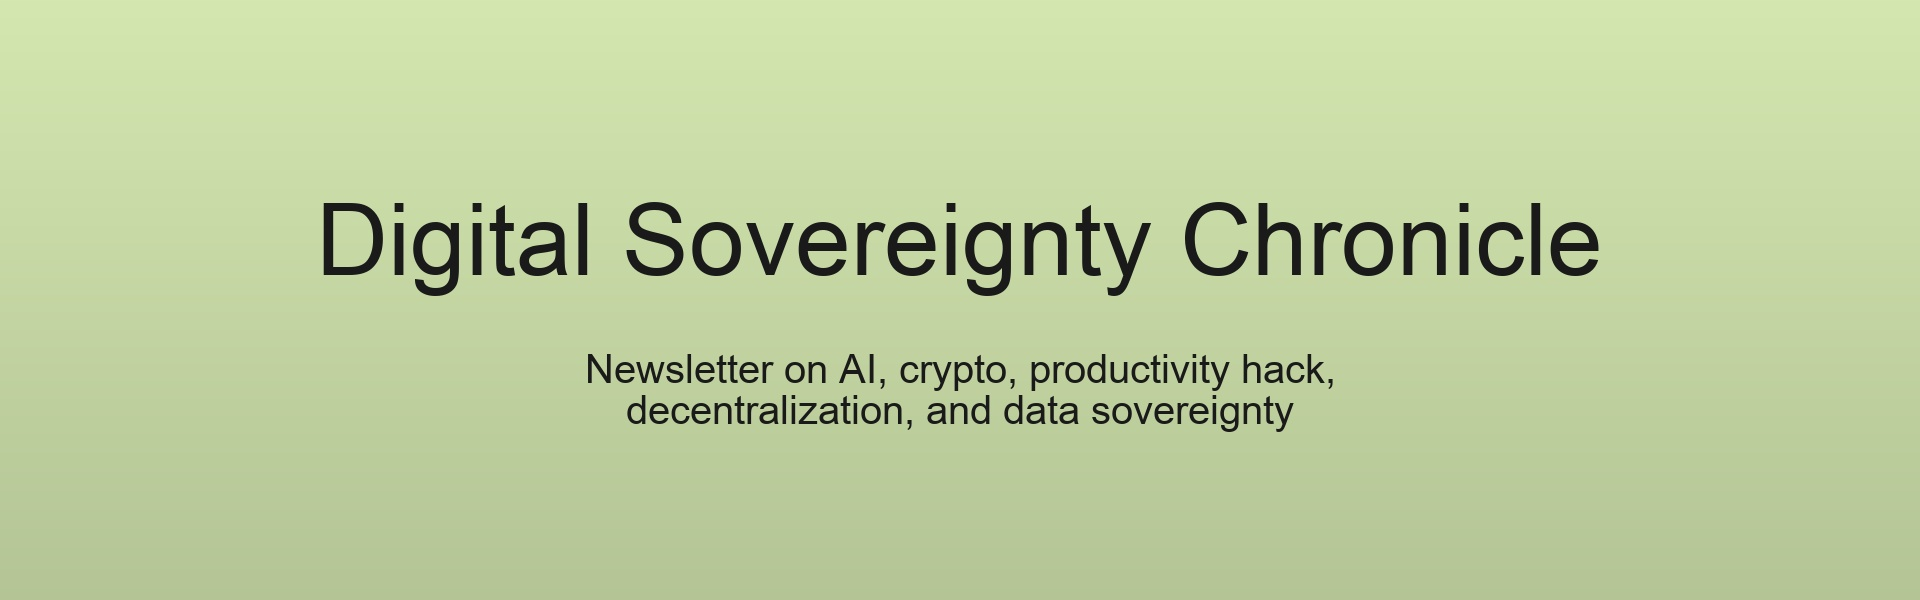
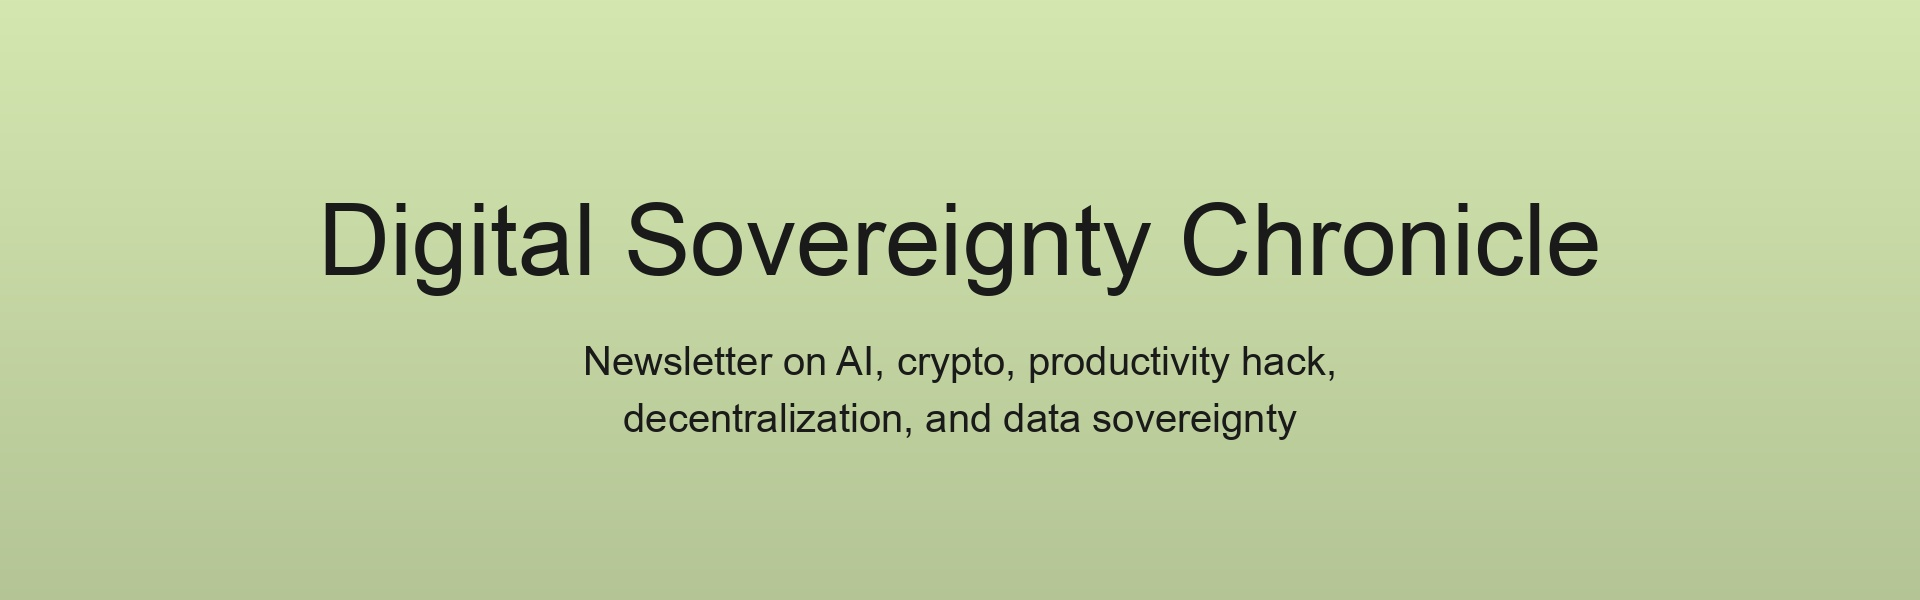
Improve hero image line spacing
Increase line spacing between slogan lines from default to 20 pixels in hero images for better readability. Regenerated all product hero images and social preview images to apply this change.

🤖 Generated with [Claude Code](https://claude.com/claude-code)

diff --git a/scripts/generate_hero_images.py b/scripts/generate_hero_images.py
@@ -164,7 +164,7 @@ class HeroImageGenerator:
 
         slogan_y = int(height * 0.6)
         draw.text((width // 2, slogan_y), wrapped_slogan,
-                 font=slogan_font, fill=text_color, anchor="mm", align="center")
+                 font=slogan_font, fill=text_color, anchor="mm", align="center", spacing=20)
 
         # Save if output path provided
         if output_path:
@@ -272,7 +272,7 @@ class HeroImageGenerator:
         wrapped_tagline = textwrap.fill(tagline, width=60)
         tagline_y = int(height * 0.65)
         draw.text((width // 2, tagline_y), wrapped_tagline,
-                 font=tagline_font, fill=text_color, anchor="mm", align="center")
+                 font=tagline_font, fill=text_color, anchor="mm", align="center", spacing=20)
 
         # Save if output path provided
         if output_path:
